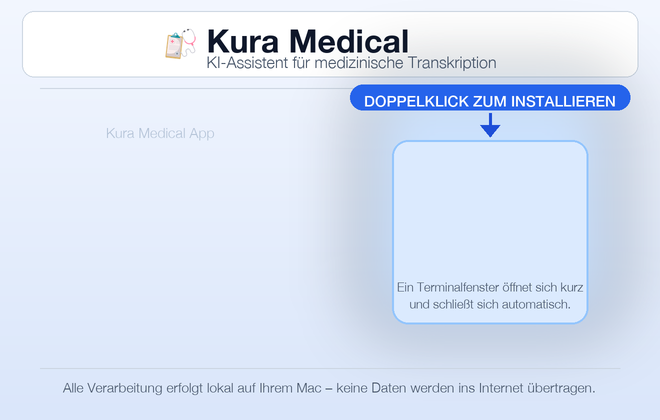
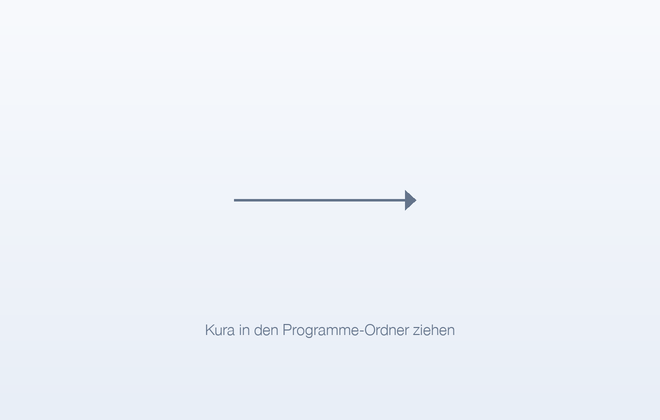
macos installer: drag-to-Programme layout, drop install.command
The standalone .command script was triggering Gatekeeper malware warnings
on first launch. Replaced with a /Applications symlink (labelled "Programme")
so users drag Kura.app onto it the standard macOS way. Background image
simplified to a single arrow + instruction line.

Changed region(s): [[0.2424, 0.0619, 1.0, 0.8667], [0.0909, 0.8976, 0.9091, 0.9595], [0.1515, 0.3095, 0.3333, 0.3405]]

diff --git a/macos/create_dmg_background.py b/macos/create_dmg_background.py
@@ -1,195 +1,65 @@
 #!/usr/bin/env python3
 """
 Generate the Kura Medical DMG installer background image.
+Minimal layout: subtle gradient, one arrow, one instruction line.
 Outputs:  macos/assets/dmg_background.png      (660×420  – 1x)
           macos/assets/dmg_background@2x.png   (1320×840 – retina)
-
-Run manually:  python3 macos/create_dmg_background.py
-Called by:     create_installer.sh  (automatically before build)
 """
 
-from PIL import Image, ImageDraw, ImageFont, ImageFilter
+from PIL import Image, ImageDraw, ImageFont
 import os
 
-# ── Canvas (work at 2× retina; downscale for 1×) ────────────────────────────
 W, H = 1320, 840
 
-# ── Palette ──────────────────────────────────────────────────────────────────
-BG_TOP    = (243, 247, 255)
-BG_BOT    = (218, 230, 250)
-BLUE      = ( 37,  99, 235)
-BLUE_DARK = ( 29,  78, 216)
-BLUE_100  = (219, 234, 254)
-BLUE_300  = (147, 197, 253)
-TEXT_DARK = ( 15,  23,  42)
-TEXT_MID  = ( 71,  85, 105)
-TEXT_LITE = (180, 195, 215)
-RULE      = (203, 213, 225)
-WHITE     = (255, 255, 255)
+BG_TOP    = (248, 250, 253)
+BG_BOT    = (232, 238, 247)
+ARROW     = (100, 116, 139)
+TEXT_MID  = (100, 116, 139)
 
-# ── Icon layout (2× pixel coords) ───────────────────────────────────────────
-# create-dmg: --icon-size 100  --icon "Kura.app" 160 200  --icon "Install…" 490 200
-# (x, y) is icon *centre* in 1× pts; multiply by 2 for this 2× canvas.
-APP_CX,  APP_CY  = 320, 400   # Kura.app centre
-INST_CX, INST_CY = 980, 400   # Installer centre
-ICON_HALF = 100                # 100pt icon-size → ±100px at 2×
+# create-dmg: --icon "Kura.app" 160 200  --icon "Programme" 490 200
+APP_CX,  APP_CY  = 320, 400
+DEST_CX, DEST_CY = 980, 400
+ICON_HALF = 100
 
-# ── Fonts ────────────────────────────────────────────────────────────────────
 HN = "/System/Library/Fonts/HelveticaNeue.ttc"
-HN_BOLD, HN_REG, HN_LIGHT, HN_MEDIUM = 1, 0, 7, 10
+HN_LIGHT = 7
 
-def font(size, face=HN_REG):
+def font(size, face=HN_LIGHT):
     try:
         return ImageFont.truetype(HN, size, index=face)
     except Exception:
         return ImageFont.load_default()
 
-# ── Helpers ───────────────────────────────────────────────────────────────────
 def gradient(draw, w, h, top, bot):
     for y in range(h):
         t = y / max(h - 1, 1)
         c = tuple(int(top[i] + (bot[i] - top[i]) * t) for i in range(3))
         draw.line([(0, y), (w, y)], fill=c)
 
-def rrect(draw, box, r, fill=None, outline=None, width=3):
-    draw.rounded_rectangle(box, radius=r, fill=fill, outline=outline, width=width)
-
-def centered_x(draw, text, f):
-    bb = draw.textbbox((0, 0), text, font=f)
-    return (W - (bb[2] - bb[0])) // 2
-
-def text_h(draw, text, f):
-    bb = draw.textbbox((0, 0), text, font=f)
-    return bb[3] - bb[1]
-
-def soft_glow(size, cx, cy, r, color, blur=50):
-    g = Image.new("RGBA", size, (0, 0, 0, 0))
-    ImageDraw.Draw(g).rounded_rectangle(
-        [cx - r, cy - r, cx + r, cy + r],
-        radius=r // 3, fill=(*color, 90),
-    )
-    return g.filter(ImageFilter.GaussianBlur(radius=blur))
-
-# ── Build ─────────────────────────────────────────────────────────────────────
 img  = Image.new("RGBA", (W, H), BG_TOP)
 draw = ImageDraw.Draw(img)
 gradient(draw, W, H, BG_TOP, BG_BOT)
 
-# ─── Header card ──────────────────────────────────────────────────────────────
-f_title = font(64, HN_BOLD)
-f_sub   = font(32, HN_LIGHT)
+# Arrow between the two icons
+ARR_LEFT  = APP_CX + ICON_HALF + 48
+ARR_RIGHT = DEST_CX - ICON_HALF - 48
+ARR_Y     = APP_CY
 
-TITLE_TXT = "Kura Medical"
-SUB_TXT   = "KI-Assistent für medizinische Transkription"
-
-th = text_h(draw, TITLE_TXT, f_title)
-sh = text_h(draw, SUB_TXT,   f_sub)
-
-LOGO_PX   = 68
-GAP       = 16   # gap between title and subtitle
-V_PAD     = 20   # vertical padding inside card
-block_h   = th + GAP + sh
-HDR_Y0    = 22
-HDR_Y1    = HDR_Y0 + V_PAD * 2 + max(block_h, LOGO_PX)
-
-rrect(draw, [44, HDR_Y0, W - 44, HDR_Y1], r=24, fill=WHITE, outline=RULE, width=2)
-
-ASSETS   = os.path.join(os.path.dirname(__file__), "..", "assets")
-logo_img = (
-    Image.open(os.path.join(ASSETS, "icon.png"))
-    .convert("RGBA")
-    .resize((LOGO_PX, LOGO_PX), Image.LANCZOS)
-)
-
-# Measure text block width to centre logo + text together
-title_w = draw.textbbox((0, 0), TITLE_TXT, font=f_title)[2]
-sub_w   = draw.textbbox((0, 0), SUB_TXT,   font=f_sub)[2]
-txt_w   = max(title_w, sub_w)
-logo_gap = 18
-total_w = LOGO_PX + logo_gap + txt_w
-BX = (W - total_w) // 2   # left edge of the whole logo+text block
-
-logo_top = HDR_Y0 + (HDR_Y1 - HDR_Y0 - LOGO_PX) // 2
-img.paste(logo_img, (BX, logo_top), logo_img)
-
-txt_x     = BX + LOGO_PX + logo_gap
-title_top = HDR_Y0 + V_PAD
-sub_top   = title_top + th + GAP
-
-draw.text((txt_x, title_top), TITLE_TXT, font=f_title, fill=TEXT_DARK)
-draw.text((txt_x, sub_top),   SUB_TXT,   font=f_sub,   fill=TEXT_MID)
-
-# Separator
-SEP_Y = HDR_Y1 + 22
-draw.line([(80, SEP_Y), (W - 80, SEP_Y)], fill=RULE, width=2)
-
-# ─── Soft glow behind installer zone ─────────────────────────────────────────
-img = Image.alpha_composite(
-    img, soft_glow((W, H), INST_CX, INST_CY, r=260, color=BLUE_300, blur=60)
-)
-draw = ImageDraw.Draw(img)
-
-# ─── Installer highlight card ─────────────────────────────────────────────────
-# Covers icon zone + macOS filename label (~130px below icon bottom)
-CX0 = INST_CX - ICON_HALF - 96
-CY0 = INST_CY - ICON_HALF - 20
-CX1 = INST_CX + ICON_HALF + 96
-CY1 = INST_CY + ICON_HALF + 148
-
-rrect(draw, [CX0, CY0, CX1, CY1], r=32, fill=BLUE_100, outline=BLUE_300, width=4)
-
-# Reassurance lines inside card, below the OS filename label zone
-f_helper = font(25, HN_LIGHT)
-lines    = [
-    "Ein Terminalfenster öffnet sich kurz",
-    "und schließt sich automatisch.",
-]
-for i, line in enumerate(lines):
-    lx = INST_CX - (draw.textbbox((0, 0), line, font=f_helper)[2]) // 2
-    draw.text((lx, CY1 - 90 + i * 34), line, font=f_helper, fill=TEXT_MID)
-
-# ─── Badge: "DOPPELKLICK ZUM INSTALLIEREN" ────────────────────────────────────
-f_badge = font(30, HN_MEDIUM)
-BADGE   = "DOPPELKLICK ZUM INSTALLIEREN"
-bbb     = draw.textbbox((0, 0), BADGE, font=f_badge)
-bw, bh  = bbb[2] - bbb[0], bbb[3] - bbb[1]
-BPX, BPY = 28, 14
-
-# Anchor badge so arrow has ~60px of room to the card top
-BADGE_BTM = CY0 - 60
-BADGE_TOP = BADGE_BTM - bh - BPY * 2
-bx        = INST_CX - bw // 2
-
-rrect(draw, [bx - BPX, BADGE_TOP, bx + bw + BPX, BADGE_BTM], r=40, fill=BLUE)
-draw.text((bx, BADGE_TOP + BPY), BADGE, font=f_badge, fill=WHITE)
-
-# Arrow badge → card
-ARR_CX  = INST_CX
-ARR_TOP = BADGE_BTM + 6
-ARR_BOT = CY0 - 8
-draw.line([(ARR_CX, ARR_TOP), (ARR_CX, ARR_BOT)], fill=BLUE_DARK, width=6)
-aw = 20
+draw.line([(ARR_LEFT, ARR_Y), (ARR_RIGHT - 20, ARR_Y)], fill=ARROW, width=5)
+ah = 20
 draw.polygon([
-    (ARR_CX - aw, ARR_BOT - 22),
-    (ARR_CX + aw, ARR_BOT - 22),
-    (ARR_CX,      ARR_BOT + 2),
-], fill=BLUE_DARK)
+    (ARR_RIGHT - 22, ARR_Y - ah),
+    (ARR_RIGHT,      ARR_Y),
+    (ARR_RIGHT - 22, ARR_Y + ah),
+], fill=ARROW)
 
-# ─── Left: subtle app label ───────────────────────────────────────────────────
-f_lbl = font(28, HN_LIGHT)
-lbl   = "Kura Medical App"
-lw    = draw.textbbox((0, 0), lbl, font=f_lbl)[2]
-draw.text((APP_CX - lw // 2, APP_CY - ICON_HALF - 52), lbl, font=f_lbl, fill=TEXT_LITE)
+# Single instruction line below the icons
+f_label = font(30)
+LABEL   = "Kura in den Programme-Ordner ziehen"
+lw      = draw.textbbox((0, 0), LABEL, font=f_label)[2]
+lx      = (W - lw) // 2
+draw.text((lx, APP_CY + ICON_HALF + 140), LABEL, font=f_label, fill=TEXT_MID)
 
-# ─── Footer ───────────────────────────────────────────────────────────────────
-FOOT_Y = H - 82
-draw.line([(80, FOOT_Y - 22), (W - 80, FOOT_Y - 22)], fill=RULE, width=2)
-f_foot   = font(27, HN_LIGHT)
-FOOT_TXT = "Alle Verarbeitung erfolgt lokal auf Ihrem Mac – keine Daten werden ins Internet übertragen."
-fx = centered_x(draw, FOOT_TXT, f_foot)
-draw.text((fx, FOOT_Y), FOOT_TXT, font=f_foot, fill=TEXT_MID)
-
-# ─── Save ─────────────────────────────────────────────────────────────────────
 out_dir = os.path.join(os.path.dirname(__file__), "assets")
 os.makedirs(out_dir, exist_ok=True)
 
